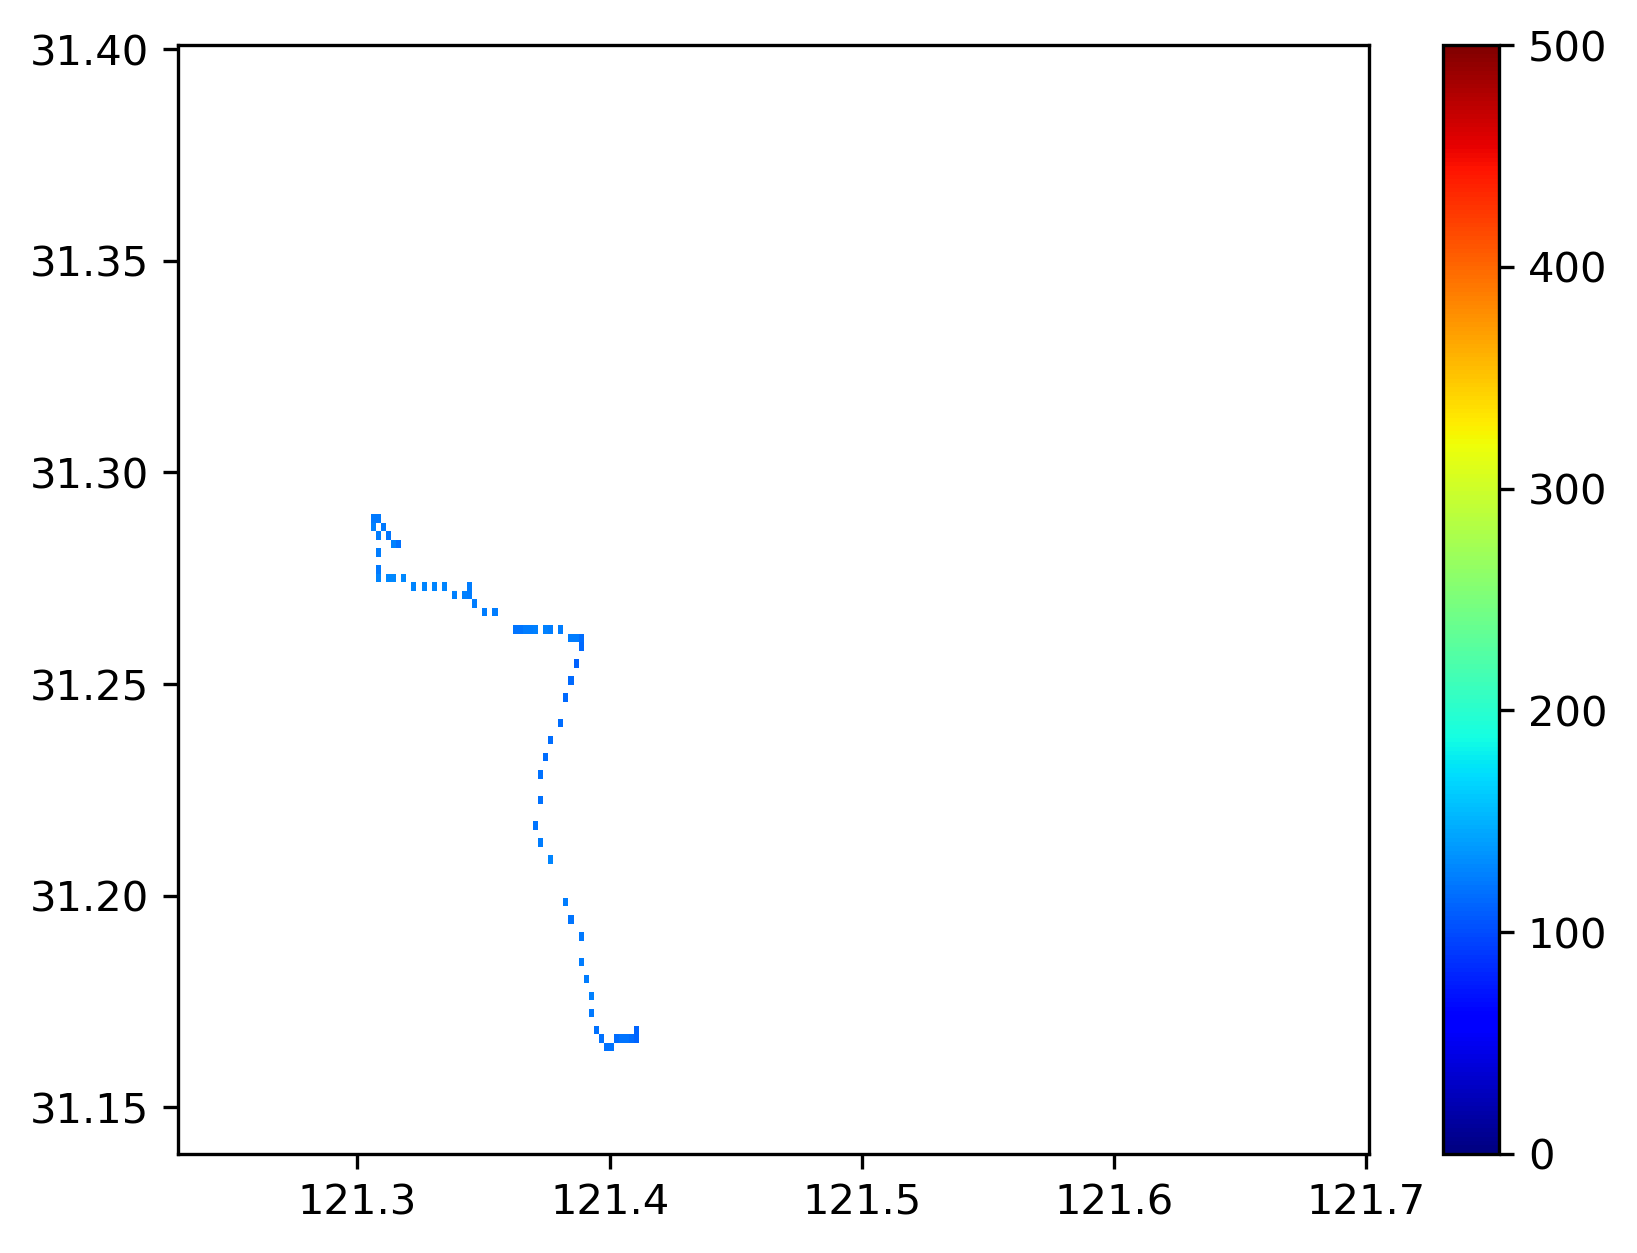
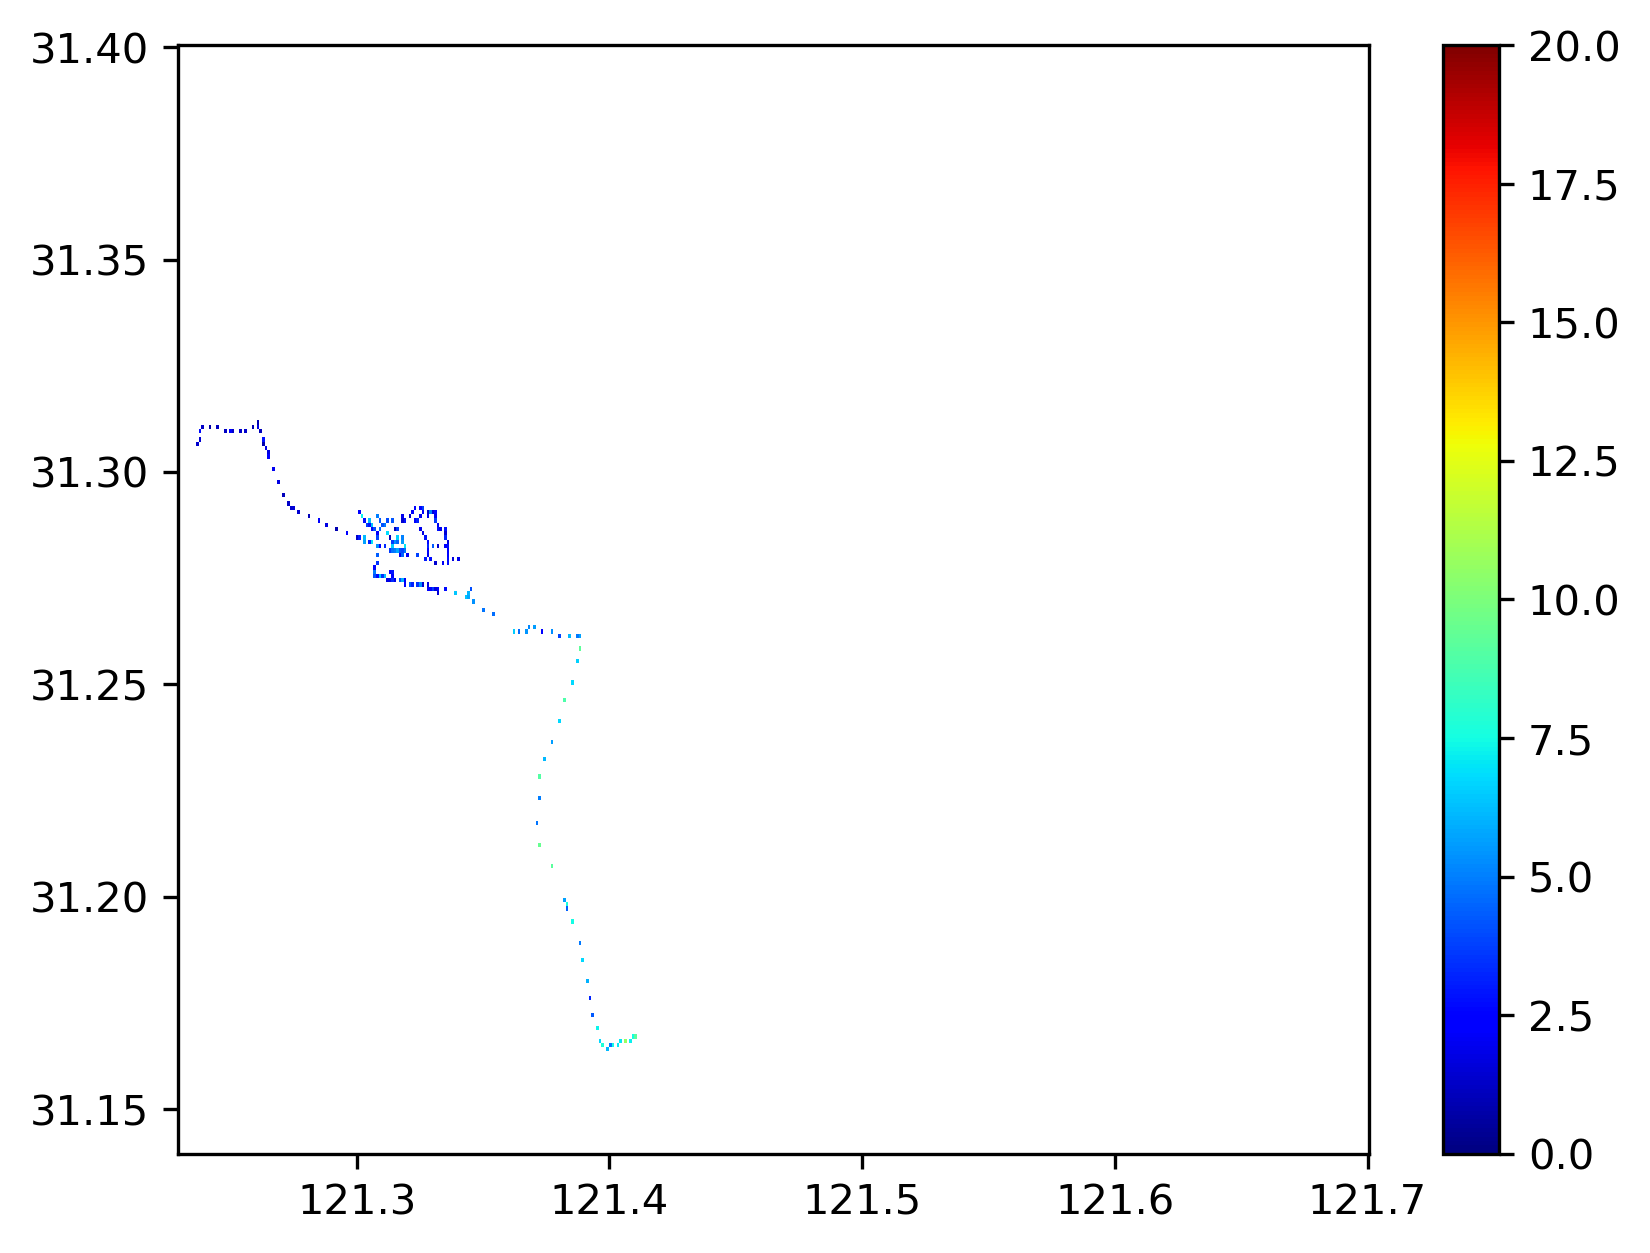
add cruise uv

diff --git a/lavender_mirror/lib/mesh.py b/lavender_mirror/lib/mesh.py
@@ -32,12 +32,14 @@ def build_meshgrid(cfg):
     # Create latitude and longitude meshgrid
     lon_mesh, lat_mesh = np.meshgrid(lon_array, lat_array)
     return lon_mesh, lat_mesh
-def build_uvmesh(cfg, df_tfs, lat_mesh, lon_mesh):
+def build_uvmesh(cfg, df, lat_mesh, lon_mesh):
+    df_tfs=df.index
     #tfs=pd.date_range(
     #    df_tfs[0]-datetime.timedelta(hours=1), df_tfs[-1], freq='1T')
     res_mesh=cfg['KERNEL']['res_mesh']
     tfs=pd.date_range(
     df_tfs[0].strftime('%Y-%m-%d %H:%M'), df_tfs[-1].strftime('%Y-%m-%d %H:%M'), freq='1T')
+    t1d=np.array([val.timestamp() for val in tfs])
     nt=len(tfs)
     nx,ny=lon_mesh.shape
 
@@ -52,15 +54,28 @@ def build_uvmesh(cfg, df_tfs, lat_mesh, lon_mesh):
  
     nx,ny=lon_mesh.shape
     XLAT, XLONG, U10, V10, wrf_tfs=io.feed_uv(cfg, tfs)
-    latsub, lonsub=find_area(XLAT, XLONG, lat_mesh, lon_mesh) 
+    
+    latsub, lonsub=find_area(XLAT, XLONG, lat_mesh, lon_mesh)
+    
+    utils.write_log(f'{print_prefix}locating and filling u and v into mesh...')
     for lat0, lon0 in zip(latsub, lonsub):
+        ilat,ilon=locate_position(lat0, lon0, XLAT, XLONG)
+        ilat_area, ilon_area=locate_position(lat0, lon0, lat_mesh, lon_mesh)
         for it, tf in enumerate(wrf_tfs):
-            ilat,ilon=locate_position(lat0, lon0, XLAT, XLONG)
-            ilat_area, ilon_area=locate_position(lat0, lon0, lat_mesh, lon_mesh)
-            it_area=find_it(tf, tfs)
-            u.values[it_area,ilat_area,ilon_area]=U10.sel(file=it)[ilat,ilon].values
-            v.values[it_area,ilat_area,ilon_area]=V10.sel(file=it)[ilat,ilon].values
-            #print(it, ilat, ilon, U10.sel(file=it)[ilat,ilon].values, V10.sel(file=it)[ilat,ilon].values)
+            it_area=find_it(tf, t1d)
+            u.values[it_area,ilat_area,ilon_area]=U10.values[it,ilat,ilon]
+            v.values[it_area,ilat_area,ilon_area]=V10.values[it,ilat,ilon]
+    
+    if 'u' in df.columns.values:
+        utils.write_log(f'{print_prefix} filling cruise wind observations into mesh...')
+        uv_df = df.resample('1T').bfill()
+        for idx, (tf, row) in enumerate(uv_df.iterrows()):
+            ilat_area, ilon_area=locate_position(row['lat'], row['lon'], lat_mesh, lon_mesh)
+            u.values[idx,ilat_area,ilon_area]=row['u']
+            v.values[idx,ilat_area,ilon_area]=row['v']
+
+
+    utils.write_log(f'{print_prefix} 3D interpolating...')
     u,v=interp_3d(u),interp_3d(v)
     return u,v
 def interp_3d(da):
@@ -68,11 +83,10 @@ def interp_3d(da):
     da=da.interpolate_na(dim='lat', method="linear", fill_value="extrapolate") 
     da=da.interpolate_na(dim='time', method="linear", fill_value="extrapolate") 
     return da
-def find_it(tf, tfs):
+def find_it(tf, t1d):
     tf=tf+datetime.timedelta(hours=8) # to localtime
-    for it, t in enumerate(tfs):
-        if tf==t:
-            return it
+    it= np.abs(t1d - tf.timestamp()).argmin()
+    return it
 def find_area(XLAT, XLONG, lat_mesh, lon_mesh):
     latmin, latmax=lat_mesh[:,0].min(), lat_mesh[:,0].max()
     lonmin, lonmax=lon_mesh[0,:].min(), lon_mesh[0,:].max()
@@ -92,12 +106,12 @@ def locate_position(lat0, lon0, lat_mesh, lon_mesh):
     # Return the matrix index
     return lat_index, lon_index
 
-def build_field(cruise_df, lat_mesh, lon_mesh):
+def build_field(cfg, cruise_df, lat_mesh, lon_mesh):
     utils.write_log(f'{print_prefix}build concentration field...')
     conc, times=np.zeros(lat_mesh.shape), np.zeros(lat_mesh.shape)
     for idx, row in cruise_df.iterrows():
         lat_index, lon_index = locate_position(row['lat'], row['lon'], lat_mesh, lon_mesh)
-        conc[lat_index, lon_index] += row['TVOC2']
+        conc[lat_index, lon_index] += row[cfg['INPUT']['tgt_species']]
         times[lat_index, lon_index] +=1
     conc=conc/times
     return conc

diff --git a/lavender_mirror/lib/kernel.py b/lavender_mirror/lib/kernel.py
@@ -1,5 +1,5 @@
-#/usr/bin/env python3
-from . import  utils, mesh
+#!/usr/bin/env python3
+from . import  utils, mesh 
 import numpy as np
 import datetime
 print_prefix='lib.kernel>>'
@@ -57,7 +57,6 @@ class Particles:
         self.nsteps=int(cfg['KERNEL']['nsteps'])
         self.dt=int(cfg['KERNEL']['dt'])
         self.part_id=np.arange(self.nptcls,dtype=np.int32)
-        self.lat2d, self.lon2d=lat2d,lon2d 
         self.conc=np.zeros(self.nptcls)
         self.xlons=np.zeros((self.nptcls,self.nsteps),dtype=np.float32)
         self.xlats=self.xlons.copy()
@@ -65,7 +64,7 @@ class Particles:
         for idx, (tf, row) in enumerate(df.iterrows()):
             self.xlons[idx,0],self.xlats[idx,0]=row['lon'],row['lat']
             self.xtimes.append(tf)
-            self.conc[idx]=row['TVOC2']
+            self.conc[idx]=row[cfg['INPUT']['tgt_species']]
     
         utils.write_log(
             print_prefix+'array with %d parcels initiated!' % self.nptcls)
@@ -73,18 +72,24 @@ class Particles:
     def march(self,u,v):
         """ march particles """
         dt=self.dt 
-        #for idx in range(60):
-        for idx in range(self.nptcls):
-            it=self.xtimes[idx]
-            utils.write_log(
-                print_prefix+'Marching parcel %d at time %s for %d seconds' % (
-                    idx, it.strftime('%Y-%m-%d %H:%M:%S'), dt*self.nsteps)
-            )
-            for idt in range(self.nsteps-1):
+        u4d,v4d=u.values,v.values
+        lat1d,lon1d=u.lat.values,u.lon.values
+        t1d=np.array([val.tolist()/1e9 for val in u.time.values])
+        utils.write_log(
+                print_prefix+'Marching %d parcels for %d seconds' % (
+                self.nptcls, dt*self.nsteps))
+            
 
+        for idx in range(self.nptcls):
+            tf=self.xtimes[idx]
+            it=tf.timestamp()
+            for idt in range(self.nsteps-1):
                 ilat,ilon=self.xlats[idx,idt],self.xlons[idx,idt]
-                u0=u.sel(lat=ilat,lon=ilon,time=it, method='nearest')
-                v0=v.sel(lat=ilat,lon=ilon,time=it, method='nearest')
+                idlat=get_closest_idx_lsearch(lat1d, ilat)
+                idlon=get_closest_idx_lsearch(lon1d, ilon)
+                idtime=get_closest_idx_lsearch(t1d, it)
+                u0=u4d[idtime,idlat,idlon]
+                v0=v4d[idtime,idlat,idlon]
                 dx=u0*dt
                 dlon=dx*180/(CONST['a']*np.sin(np.pi/2-np.radians(ilat))*np.pi)
                 dy=v0*dt
@@ -93,4 +98,10 @@ class Particles:
                 # update
                 self.xlats[idx,idt+1]=self.xlats[idx,idt]+dlat
                 self.xlons[idx,idt+1]=self.xlons[idx,idt]+dlon
-                it = it+datetime.timedelta(seconds=dt)
+                it = it+dt
+
+def get_closest_idx_lsearch(l1d, tgt_value):
+    """
+        Find the nearest idx in l1d (linear search)
+    """
+    return np.abs(l1d - tgt_value).argmin()

diff --git a/lavender_mirror/lib/io.py b/lavender_mirror/lib/io.py
@@ -4,6 +4,7 @@
 import os, datetime
 import pandas as pd
 import xarray as xr
+import numpy as np
 from . import utils
 import wrf
 import netCDF4 as nc4
@@ -40,16 +41,30 @@ def read_episode(cfg):
     read episode data
     '''
     episode_fn=cfg['INPUT']['episode_file'] 
-    rsmp_frq=cfg['INPUT']['resample_frq']+'S' 
+    rsmp_frq=cfg['INPUT']['resample_frq']+'S'
+    tgt=cfg['INPUT']['tgt_species'] 
     try:
+        # Standard format
+        df = pd.read_csv(episode_fn)
+        df['time'] = pd.to_datetime(df['time'], format='%Y-%m-%d_%H:%M:%S')
+ 
+    except:
+        # Read the CSV file with ';' delimiter
         df = pd.read_csv(episode_fn, delimiter=';',
                 header=None, usecols=[0, 1, 2, 3], 
                 names=['time', 'lon', 'lat', 'TVOC2'], parse_dates=['time'])
-    except:
-        df = pd.read_csv(episode_fn)
-        df['time'] = pd.to_datetime(df['time'], format='%Y-%m-%d_%H:%M:%S')
+ 
+    if cfg['INPUT'].getboolean('parse_wind'):
+        try:
+            wspd,wdir=df['wspd'].values,df['wdir'].values
+        except:
+            utils.throw_error(f'{print_prefix}wspd or wdir parser error in {episode_fn}!')
+        u1d,v1d=np.zeros(len(wspd)),np.zeros(len(wspd))
+        for id in range(len(wspd)):
+            u1d[id],v1d[id]=utils.wswd2uv(wspd[id],wdir[id])
+        df['u'],df['v']=u1d,v1d
     res_df = df.resample(rsmp_frq, on='time').mean()
-    res_df = res_df.dropna(subset=['TVOC2'])
+    res_df = res_df.dropna(subset=[tgt])
     return(res_df)
 
 def feed_uv(cfg, tfs):

diff --git a/lavender_mirror/run_model.py b/lavender_mirror/run_model.py
@@ -35,8 +35,8 @@ def waterfall():
     # read data, setup mesh
     episode_df=io.read_episode(cfg)
     lon2d, lat2d=mesh.build_meshgrid(cfg)
-    u,v=mesh.build_uvmesh(cfg, episode_df.index, lat2d, lon2d)
-    conc_dry=mesh.build_field(episode_df, lat2d, lon2d)
+    u,v=mesh.build_uvmesh(cfg, episode_df, lat2d, lon2d)
+    conc_dry=mesh.build_field(cfg, episode_df, lat2d, lon2d)
     
     # traced conc distribution
     conc_trace, times=kernel.lagrun(cfg, episode_df, u, v, lat2d, lon2d)
@@ -53,9 +53,12 @@ def waterfall():
     fig_path=cfg['OUTPUT']['fig_dir']
     if not os.path.exists(fig_path):
         os.makedirs(fig_path)
-    mesh.paint2d(os.path.join(fig_path,'conc_dry.png'), conc_dry, lat2d, lon2d)
-    mesh.paint2d(os.path.join(fig_path,'conc_trace.png'), conc_trace, lat2d, lon2d)
-    mesh.paint2d(os.path.join(fig_path,'conc_trace_times.png'), times, lat2d, lon2d,minmax=(0, 50))
+    mesh.paint2d(
+        os.path.join(fig_path,'conc_dry.png'), conc_dry, lat2d, lon2d, minmax=(0, 20))
+    mesh.paint2d(
+        os.path.join(fig_path,'conc_trace.png'), conc_trace, lat2d, lon2d, minmax=(0, 20))
+    mesh.paint2d(
+        os.path.join(fig_path,'conc_trace_times.png'), times, lat2d, lon2d,minmax=(0, 50))
 
 def _setup_logging():
     """

diff --git a/lavender_mirror/lib/utils.py b/lavender_mirror/lib/utils.py
@@ -17,11 +17,45 @@
 """
 # ---imports---
 import logging
+import numpy as np
 
 
 # ---Module regime consts and variables---
 print_prefix='lib.utils>>'
 
+DEG2RAD=np.pi/180.0
+WD_DIC={'N':  0.0, 'NNE': 22.5, 'NE': 45.0, 'ENE': 67.5,
+            'E': 90.0, 'ESE':112.5, 'SE':135.0, 'SSE':157.5,
+            'S':180.0, 'SSW':202.5, 'SW':225.0, 'WSW':247.5,
+            'W':270.0, 'WNW':292.5, 'NW':315.0, 'NNW':337.5}
+    
+
+def wswd2uv(ws, wd):
+    """ convert wind component to UV """
+    # below test valid wind direction input
+    wd_error=False
+    if np.isnan(wd) or np.isnan(ws):
+        return (np.nan, np.nan)
+    try: 
+        wd_int=int(wd)
+        if wd_int>=0.0 and wd_int<=360.0:
+            wd_rad=wd_int*DEG2RAD
+        else:
+            wd_error=True
+    except ValueError:
+        try:
+            wd_rad=WD_DIC[wd]*DEG2RAD
+        except KeyError:
+            wd_error=True
+    
+    if wd_error:
+        throw_error('utils.wswd2uv>>Invalid wind direction input! '
+                +f'with record: wind_dir={wd}')
+
+    u=-np.sin(wd_rad)*ws
+    v=-np.cos(wd_rad)*ws
+    
+    return (u,v)
 
 # ---Classes and Functions---
 def throw_error(msg):
